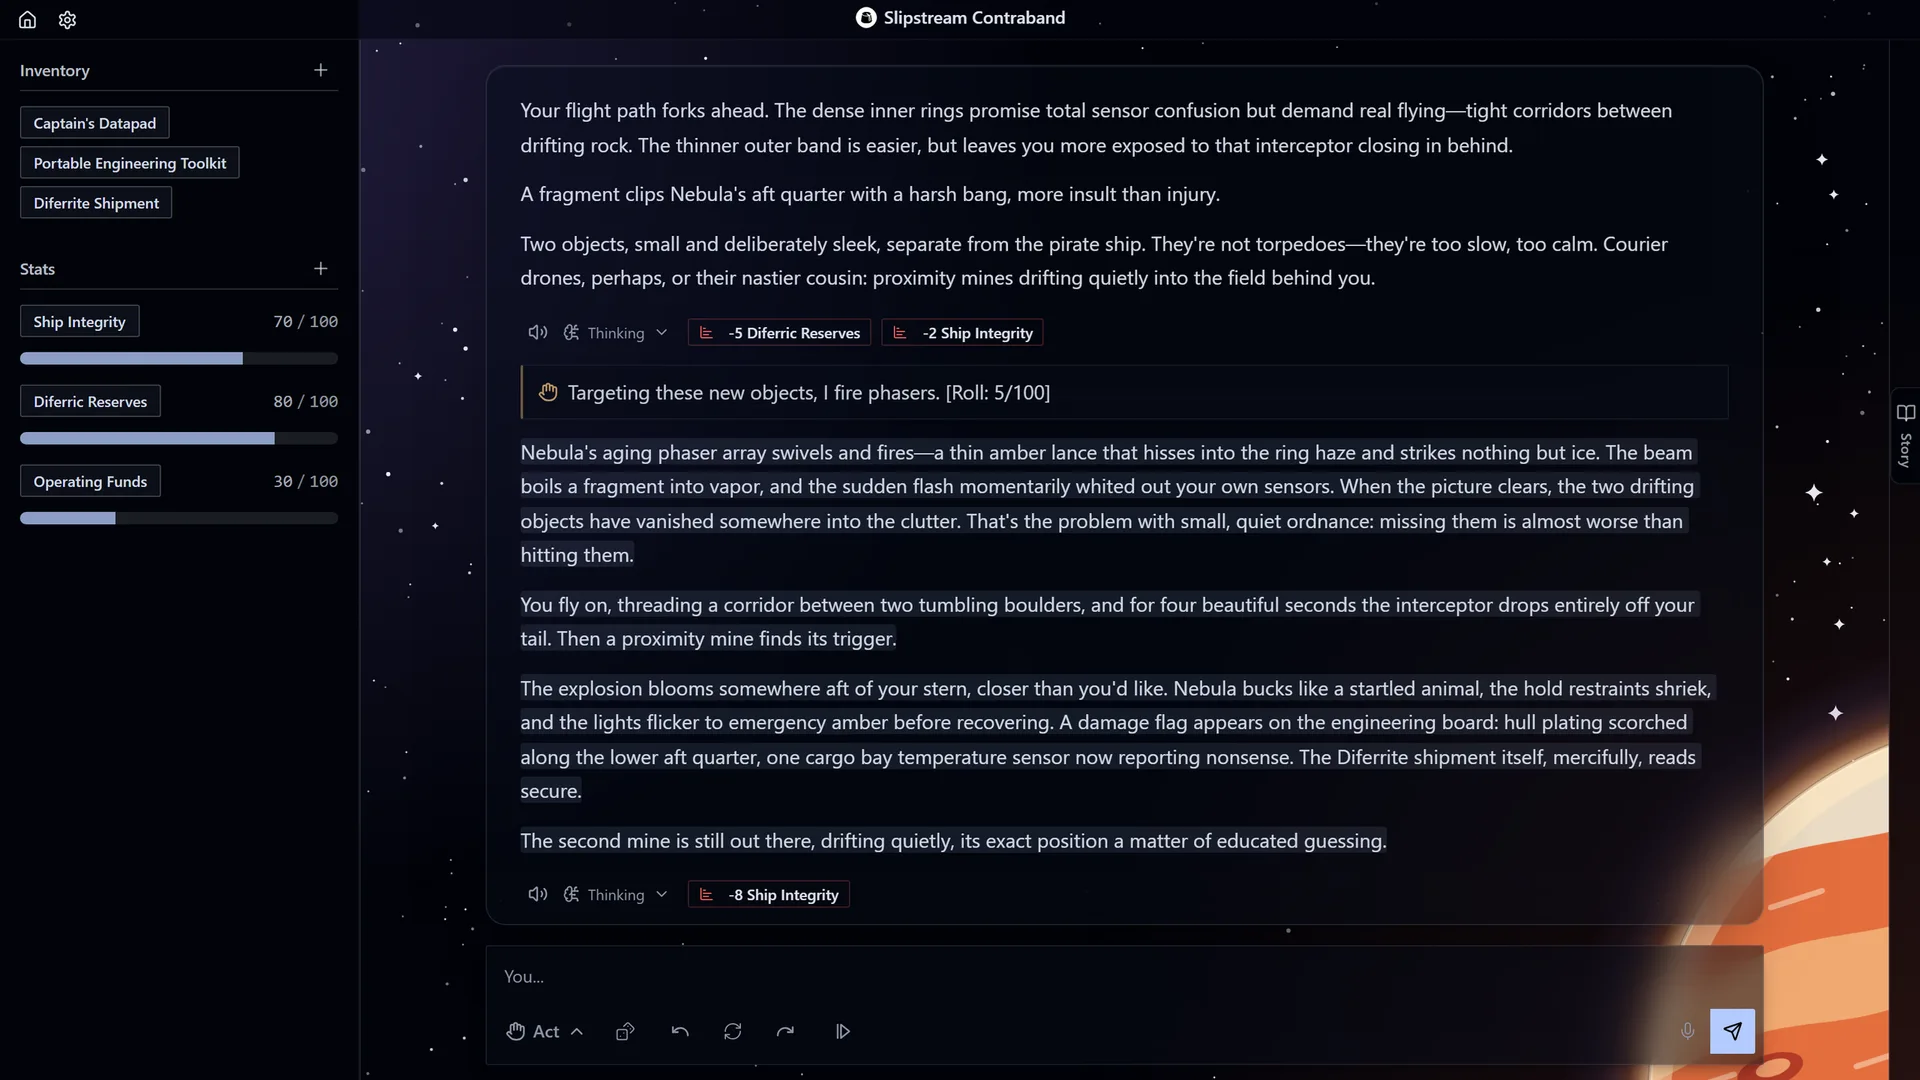
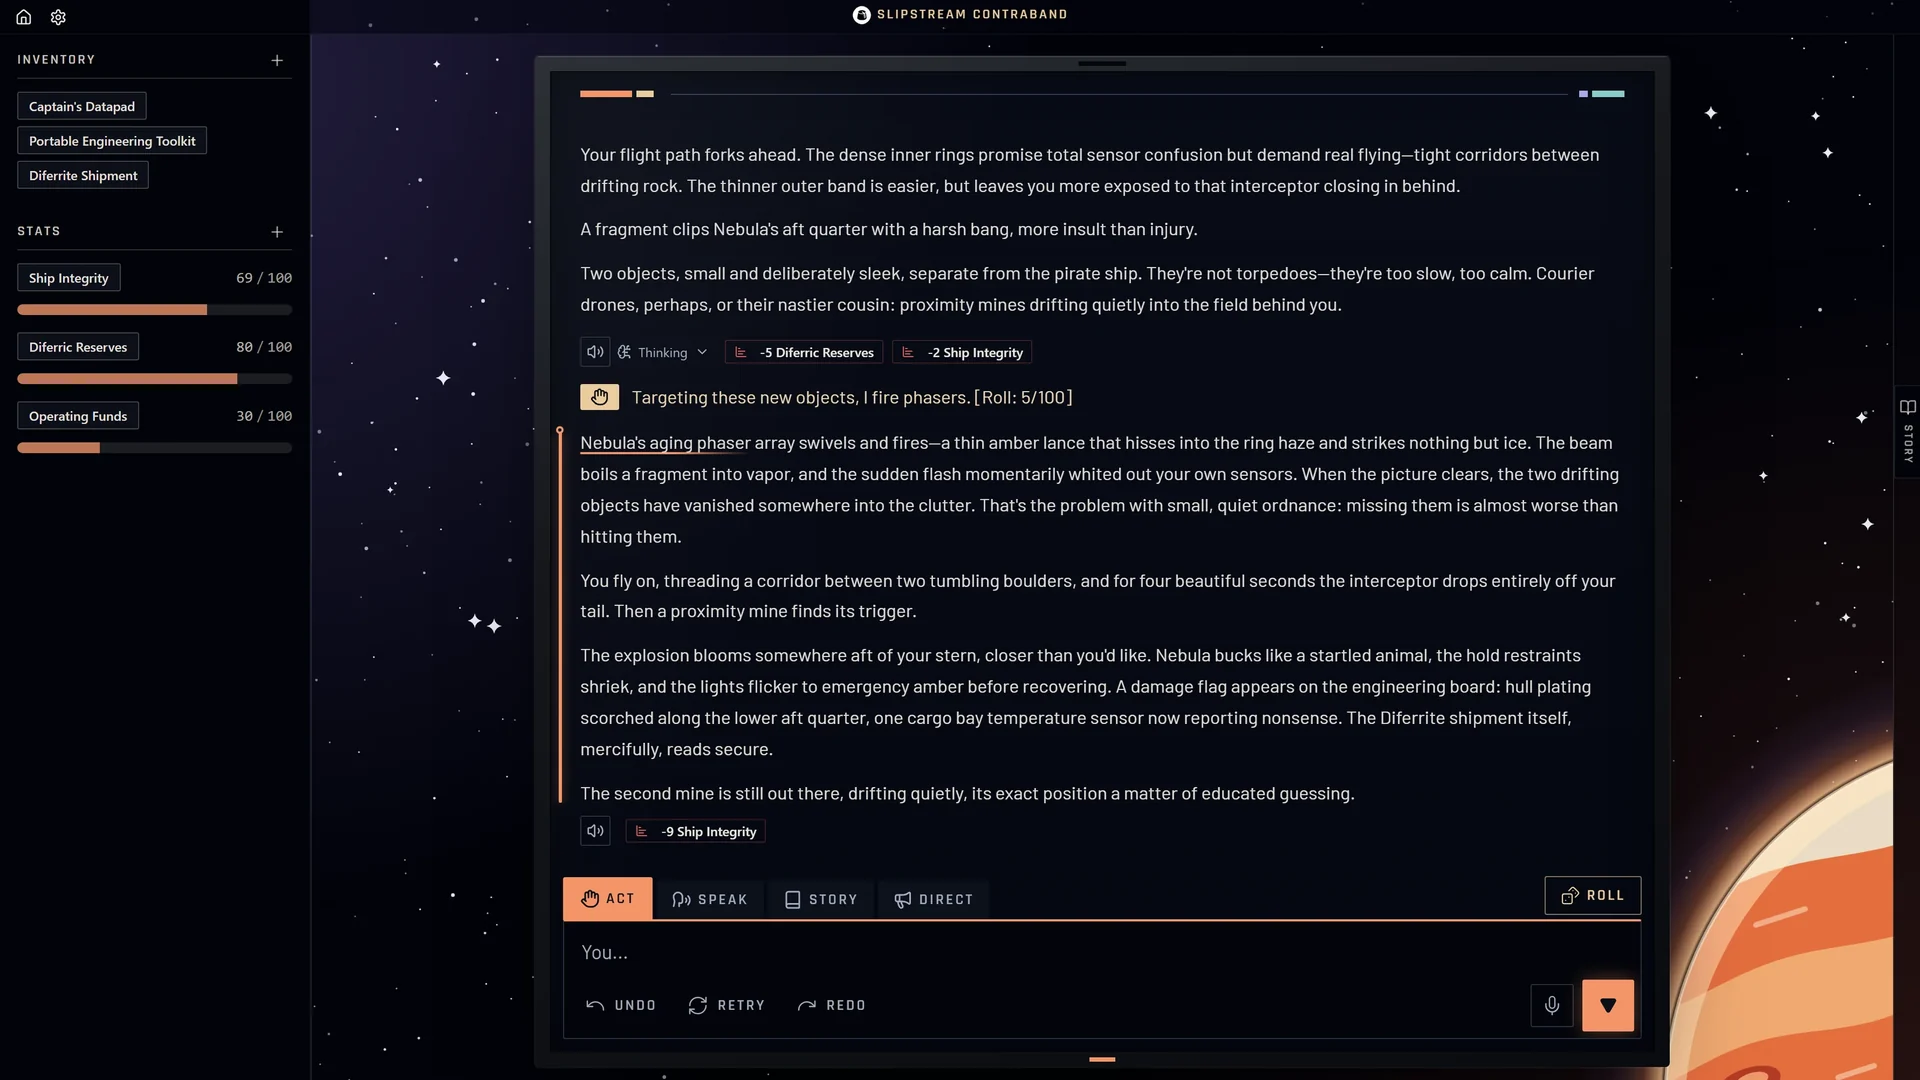
docs: refresh the README screenshots for the redesigned UI
Move the Story Teller and Game Master shots to .github/assets so they no
longer ship in the app's public folder.

diff --git a/README.md b/README.md
@@ -31,7 +31,7 @@ scenario publishing.
 Freeform storytelling without inventory or stat tracking. The AI narrates the
 story in response to your actions, dialogue, and directions.
 
-![Story Teller mode showing a tale and the player input](./public/st.png)
+![Story Teller mode showing a tale and the player input](./.github/assets/story-teller.webp)
 
 ### Game Master
 
@@ -39,7 +39,7 @@ The AI narrates and updates your character's inventory and stats. This mode is
 experimental and requires a model that supports tool calling. Results depend on
 how well the model handles those instructions.
 
-![Game Master mode showing inventory and stats beside the story](./public/gm.png)
+![Game Master mode showing inventory and stats beside the story](./.github/assets/game-master.webp)
 
 ## Getting started
 
